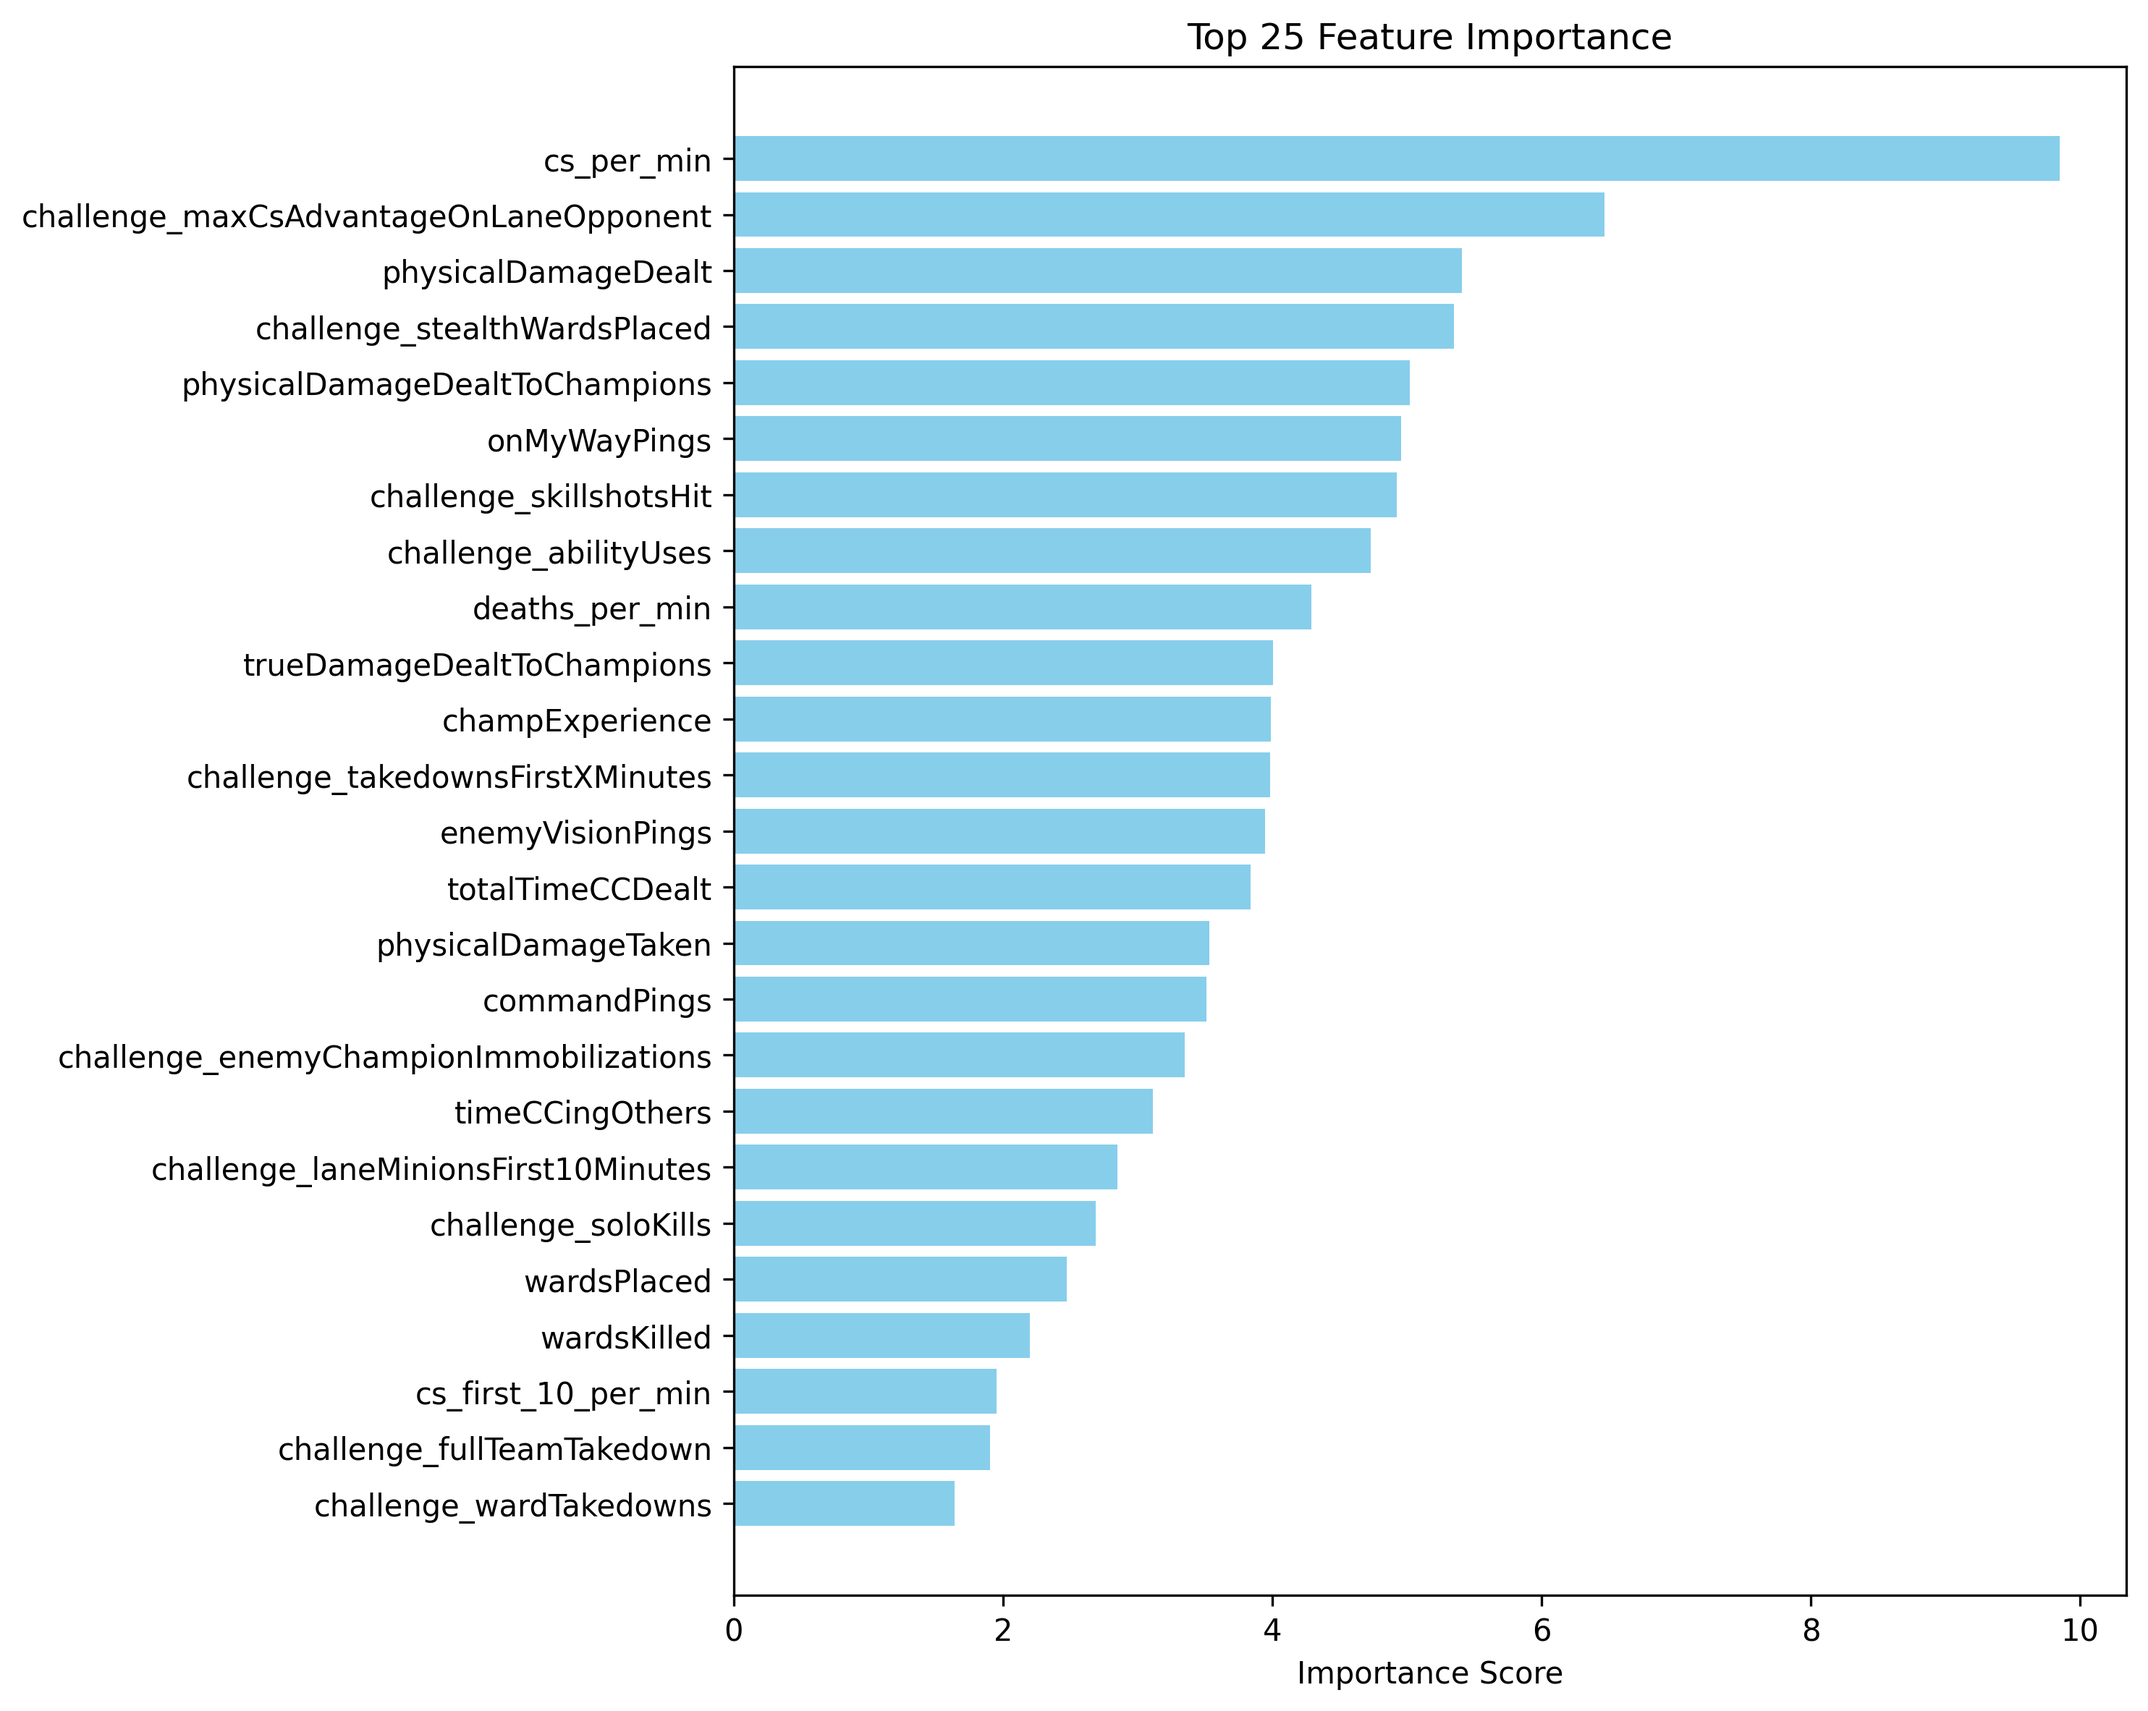
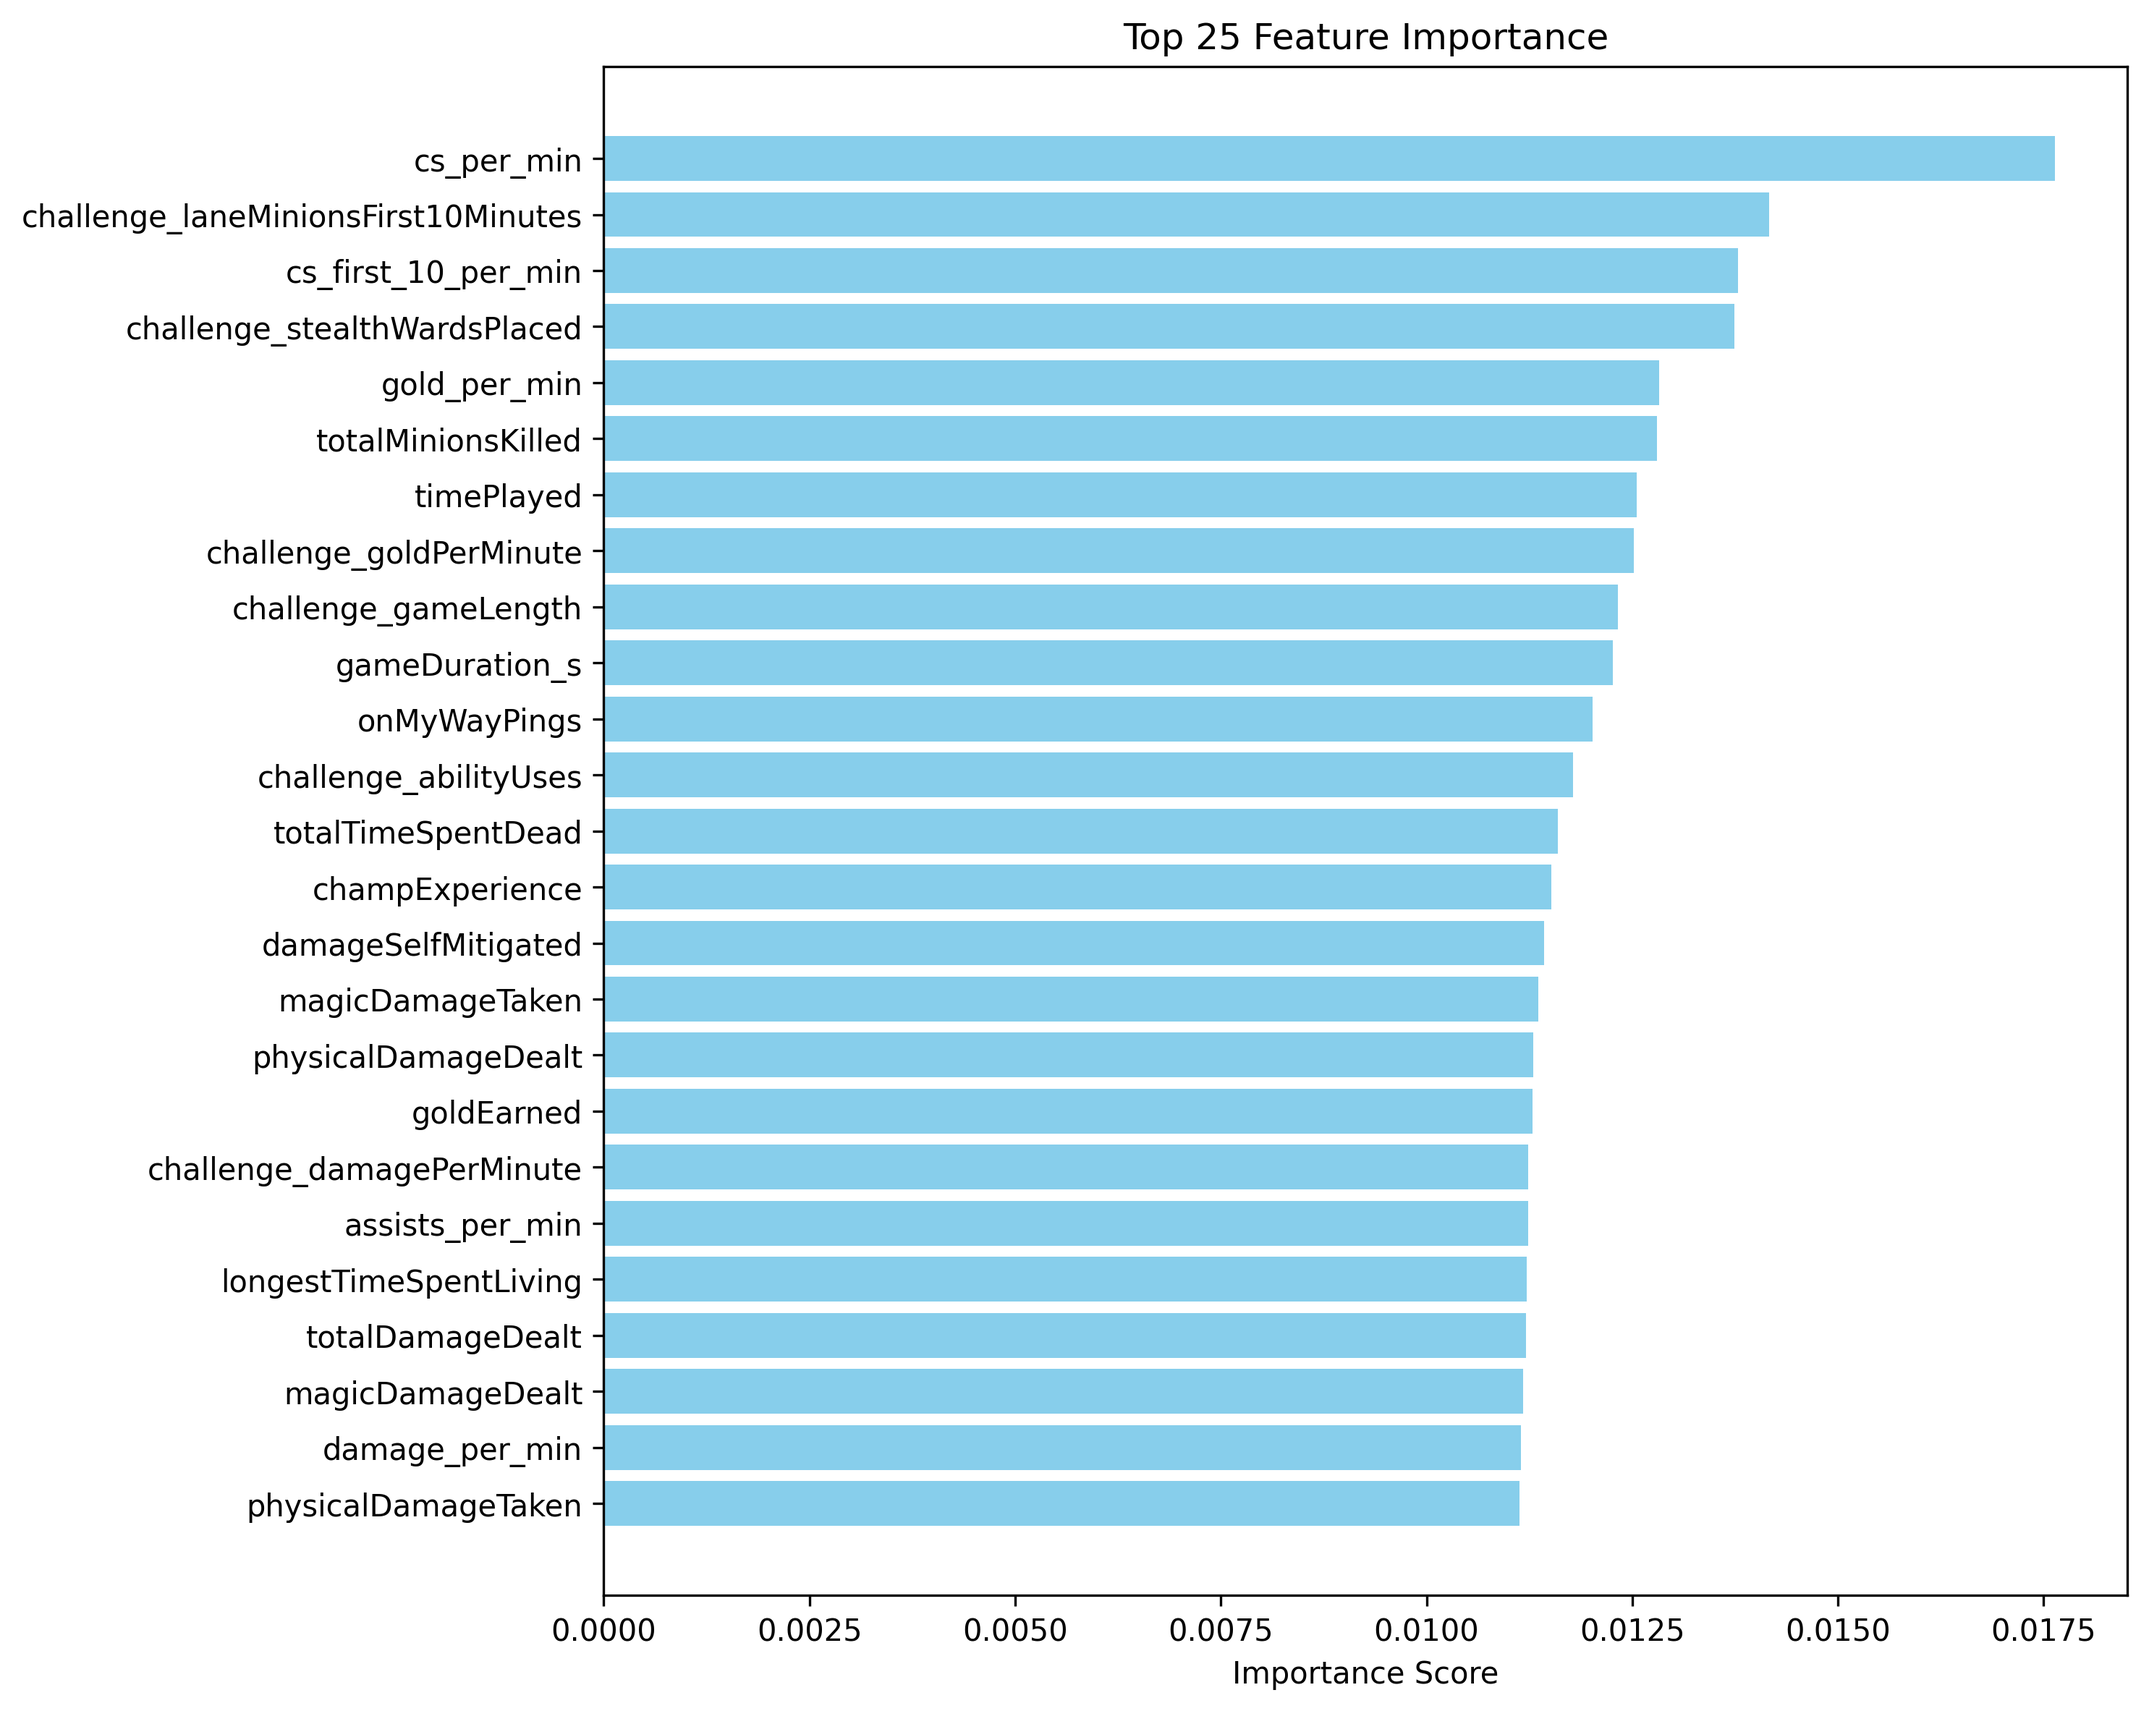
w

diff --git a/Final Project/Model/RandomForest/Model.py b/Final Project/Model/RandomForest/Model.py
@@ -1,0 +1,232 @@
+from pathlib import Path
+import argparse
+import joblib
+import shutil
+import numpy as np
+import pandas as pd
+from sklearn.compose import ColumnTransformer
+from sklearn.impute import SimpleImputer
+from sklearn.metrics import make_scorer, mean_squared_error, r2_score
+from sklearn.model_selection import KFold, ParameterGrid, cross_validate, train_test_split
+from sklearn.pipeline import Pipeline
+from sklearn.preprocessing import OrdinalEncoder
+from sklearn.ensemble import RandomForestRegressor
+
+BASE_DIR = Path(__file__).resolve().parent
+DATA_PATH = BASE_DIR.parent / "Data" / "Updated_Data.csv"
+RESULTS_PATH = BASE_DIR / "rf_model_results.csv"
+
+TARGET = "TOTAL_LP"
+EXCLUDED_FEATURES = {"tier", "rank", "tier_int", "rank_int", "leaguepoints", "lp", "total_lp"}
+
+RANDOM_STATE = 67
+TEST_SIZE = 0.2
+N_SPLITS = 5
+TOP_K = 10
+
+PARAM_GRID = {
+    "regressor__n_estimators": [300, 600],
+    "regressor__max_depth": [50, None],
+    "regressor__min_samples_split": [2, 5],
+    "regressor__min_samples_leaf": [1, 3],
+    "regressor__max_features": [50, 0.5],
+}
+CLEAN_PARAM_NAMES = [key.replace("regressor__", "") for key in PARAM_GRID]
+
+def load_dataset() -> tuple[pd.DataFrame, pd.Series]:
+    data = pd.read_csv(DATA_PATH, low_memory=False)
+    if TARGET not in data.columns:
+        raise ValueError(f"{TARGET} not found in {DATA_PATH.name}.")
+    data = data.dropna(subset=[TARGET])
+
+    feature_cols = [col for col in data.columns if col != TARGET and col.lower() not in EXCLUDED_FEATURES]
+    if not feature_cols:
+        raise ValueError("No features remain after exclusions.")
+
+    excluded_cols = [col for col in data.columns if col.lower() in EXCLUDED_FEATURES and col != TARGET]
+    print(f"Loaded {len(data)} rows.")
+    if excluded_cols:
+        print(f"Excluded LP/rank columns: {', '.join(excluded_cols)}")
+
+    X = data[feature_cols].copy()
+    y = data[TARGET].astype(float)
+    return X, y
+
+def determine_feature_types(feature_frame: pd.DataFrame) -> tuple[list[str], list[str]]:
+    categorical_features = feature_frame.select_dtypes(include=["object"]).columns.tolist()
+    numeric_features = [col for col in feature_frame.columns if col not in categorical_features]
+    return numeric_features, categorical_features
+
+def build_pipeline(numeric_features: list[str], categorical_features: list[str]) -> Pipeline:
+    transformers = []
+    if numeric_features:
+        transformers.append(("num", SimpleImputer(strategy="median"), numeric_features))
+    if categorical_features:
+        cat_pipe = Pipeline(
+            steps=[
+                ("imputer", SimpleImputer(strategy="constant", fill_value="missing")),
+                ("encoder", OrdinalEncoder(handle_unknown="use_encoded_value", unknown_value=-1)),
+            ]
+        )
+        transformers.append(("cat", cat_pipe, categorical_features))
+    if not transformers:
+        raise ValueError("No columns available for preprocessing.")
+    preprocessor = ColumnTransformer(transformers)
+
+    regressor = RandomForestRegressor(
+        n_jobs=-1,
+        random_state=RANDOM_STATE,
+        oob_score=False,
+    )
+    return Pipeline([("preprocess", preprocessor), ("regressor", regressor)])
+
+def rmse_score(y_true, y_pred):
+    return np.sqrt(mean_squared_error(y_true, y_pred))
+
+def append_partial_result(row: dict, filepath: Path, header_written: bool) -> bool:
+    ordered_row = {}
+    if "model_filename" in row:
+        ordered_row["model_filename"] = row["model_filename"]
+    for col in ("mean_cv_rmse", "std_cv_rmse", "mean_cv_r2"):
+        if col in row:
+            ordered_row[col] = row[col]
+    for col in CLEAN_PARAM_NAMES:
+        if col in row:
+            ordered_row[col] = row[col]
+    pd.DataFrame([ordered_row]).to_csv(filepath, mode="a", header=not header_written, index=False)
+    return True
+
+def run_hyperparameter_search(
+    X_train: pd.DataFrame,
+    y_train: pd.Series,
+    numeric_features: list[str],
+    categorical_features: list[str],
+    results_path: Path,
+) -> tuple[pd.DataFrame, dict]:
+    results_path.unlink(missing_ok=True)
+    header_written = False
+
+    models_dir = BASE_DIR / "all_models"
+    models_dir.mkdir(parents=True, exist_ok=True)
+
+    param_grid = list(ParameterGrid(PARAM_GRID))
+    total_configs = len(param_grid)
+    kfold = KFold(n_splits=N_SPLITS, shuffle=True, random_state=RANDOM_STATE)
+    rmse_scorer = make_scorer(rmse_score, greater_is_better=False)
+
+    results = []
+    print(f"Evaluating {total_configs} hyperparameter combinations...")
+    for idx, params in enumerate(param_grid, start=1):
+        pipeline = build_pipeline(numeric_features, categorical_features)
+        pipeline.set_params(**params)
+        cv_scores = cross_validate(
+            pipeline,
+            X_train,
+            y_train,
+            cv=kfold,
+            scoring={"rmse": rmse_scorer, "r2": "r2"},
+            n_jobs=-1,
+        )
+
+        pipeline.fit(X_train, y_train)
+        model_filename = f"rf_reg_{idx}.joblib"
+        joblib.dump(pipeline, models_dir / model_filename)
+
+        rmse_scores = -cv_scores["test_rmse"]
+        row = {
+            "model_filename": model_filename,
+            "mean_cv_rmse": rmse_scores.mean(),
+            "std_cv_rmse": rmse_scores.std(),
+            "mean_cv_r2": cv_scores["test_r2"].mean(),
+            "params_prefixed": params,
+        }
+        clean_params = {k.replace("regressor__", ""): v for k, v in params.items()}
+        row.update(clean_params)
+        results.append(row)
+
+        header_written = append_partial_result(row, results_path, header_written)
+        print(f"[{idx:02d}/{total_configs}] RMSE: {rmse_scores.mean():.3f}, params: {clean_params}")
+
+    results_df = pd.DataFrame(results).sort_values("mean_cv_rmse").reset_index(drop=True)
+    best_params = results_df.iloc[0]["params_prefixed"]
+    return results_df, best_params
+
+def display_top_models(results_df: pd.DataFrame, top_n: int = TOP_K) -> None:
+    cols_to_show = ["model_filename", "mean_cv_rmse", "std_cv_rmse", "mean_cv_r2"] + CLEAN_PARAM_NAMES
+    cols_to_show = [col for col in cols_to_show if col in results_df.columns]
+    print("\nTop models by cross-validated RMSE:")
+    print(results_df.head(top_n)[cols_to_show].to_string(index=False))
+
+def save_results(results_df: pd.DataFrame) -> None:
+    cols = [col for col in results_df.columns if col != "params_prefixed"]
+    results_df[cols].to_csv(RESULTS_PATH, index=False)
+
+def train_best_model(
+    best_params: dict,
+    numeric_features: list[str],
+    categorical_features: list[str],
+    X_train: pd.DataFrame,
+    X_test: pd.DataFrame,
+    y_train: pd.Series,
+    y_test: pd.Series,
+) -> tuple[Pipeline, float, float]:
+    pipeline = build_pipeline(numeric_features, categorical_features)
+    pipeline.set_params(**best_params)
+    pipeline.fit(X_train, y_train)
+    predictions = pipeline.predict(X_test)
+    rmse = float(np.sqrt(mean_squared_error(y_test, predictions)))
+    r2 = r2_score(y_test, predictions)
+    return pipeline, rmse, r2
+
+def main() -> None:
+    parser = argparse.ArgumentParser(description="Random Forest Regression trainer.")
+    parser.add_argument("--n-features", type=int, default=0, help="Reserved for parity; RF uses all features by default.")
+    args = parser.parse_args()
+
+    X, y = load_dataset()
+    numeric_features, categorical_features = determine_feature_types(X)
+
+    X_train, X_test, y_train, y_test = train_test_split(
+        X,
+        y,
+        test_size=TEST_SIZE,
+        random_state=RANDOM_STATE,
+    )
+
+    test_data = X_test.copy()
+    test_data[TARGET] = y_test
+    test_data.to_csv(BASE_DIR / "test_data.csv", index=False)
+
+    results_df, best_params = run_hyperparameter_search(
+        X_train, y_train, numeric_features, categorical_features, RESULTS_PATH,
+    )
+
+    best_models_dir = BASE_DIR / "best_models"
+    best_models_dir.mkdir(parents=True, exist_ok=True)
+
+    best_row = results_df.iloc[0]
+    best_filename = best_row["model_filename"]
+    src_model_path = BASE_DIR / "all_models" / best_filename
+    dst_model_path = best_models_dir / "best_model_rf.joblib"
+    shutil.copy2(src_model_path, dst_model_path)
+    print(f"Saved best model to {dst_model_path}")
+
+    display_top_models(results_df)
+    save_results(results_df)
+
+    _, test_rmse, test_r2 = train_best_model(
+        best_params,
+        numeric_features,
+        categorical_features,
+        X_train,
+        X_test,
+        y_train,
+        y_test,
+    )
+
+    print(f"\nHold-out test RMSE: {test_rmse:.3f}")
+    print(f"Hold-out test R^2: {test_r2:.3f}")
+    print(f"All results saved to {RESULTS_PATH}")
+
+if __name__ == "__main__":
+    main()

diff --git a/Final Project/Model/Model-Checking/Check.py b/Final Project/Model/Model-Checking/Check.py
@@ -8,20 +8,16 @@ from catboost import CatBoostClassifier, CatBoostRegressor
 from sklearn.pipeline import Pipeline
 from sklearn.metrics import mean_absolute_error, mean_squared_error, r2_score
 from scipy import stats
+from sklearn.ensemble import RandomForestRegressor, RandomForestClassifier
 
 BASE_DIR = Path(__file__).resolve().parent
 RESULTS_DIR = BASE_DIR / "results"
 RESULTS_DIR.mkdir(exist_ok=True)
 
-# 1. Point to the saved model file
-# Adjust the path if your model is in a different folder
-MODEL_PATH = Path(r"C:\Users\AHMET\Documents\GitHub\CSE-2600\Final Project\Model\CatBoost\all_models\catboost_reg_2.joblib")
+MODEL_PATH = Path(r"C:\Users\AHMET\Documents\GitHub\CSE-2600\Final Project\Model\RandomForest\all_models\rf_reg_1.joblib")
+TEST_DATA_PATH = Path(r"C:\Users\AHMET\Documents\GitHub\CSE-2600\Final Project\Model\RandomForest\test_data.csv")
 
-# 2. Load the pipeline
 pipeline: Pipeline = joblib.load(MODEL_PATH)
-
-# 3. Load test data (adjust path to your test data)
-TEST_DATA_PATH = Path(r"C:\Users\AHMET\Documents\GitHub\CSE-2600\Final Project\Model\CatBoost\test_data.csv")
 test_df = pd.read_csv(TEST_DATA_PATH)
 
 # Separate features and target
@@ -80,12 +76,13 @@ for idx, feature in enumerate(feature_names):
         feature_values = X_test_transformed.toarray()[:, idx]
     else:
         feature_values = X_test_transformed[:, idx]
-    
-    # Calculate correlation with target
-    correlation = np.corrcoef(feature_values, y_test)[0, 1]
-    
-    # Calculate p-value using linear regression t-test
-    slope, intercept, r_value, p_value, std_err = stats.linregress(feature_values, y_test)
+
+    if np.all(feature_values == feature_values[0]):
+        correlation = np.nan
+        slope = intercept = r_value = p_value = std_err = np.nan
+    else:
+        correlation = np.corrcoef(feature_values, y_test)[0, 1]
+        slope, intercept, r_value, p_value, std_err = stats.linregress(feature_values, y_test)
     
     # Calculate feature statistics
     feature_mean = np.mean(feature_values)
@@ -132,18 +129,24 @@ if isinstance(model, (XGBClassifier, XGBRegressor)):
 elif isinstance(model, (CatBoostClassifier, CatBoostRegressor)):
     # CatBoost feature importance
     importance_values = model.get_feature_importance()
-    
-    # Map importance values to feature names
     mapped_importance = {}
     for idx, score in enumerate(importance_values):
         if idx < len(feature_names):
             name = feature_names[idx]
-            
-            # Clean up ColumnTransformer prefixes
             if "__" in name:
                 name = name.split("__", 1)[1]
-                
             mapped_importance[name] = score
+
+elif isinstance(model, (RandomForestClassifier, RandomForestRegressor)):
+    importance_values = getattr(model, "feature_importances_", None)
+    if importance_values is None:
+        raise ValueError("RandomForest model lacks feature_importances_.")
+    mapped_importance = {}
+    for idx, score in enumerate(importance_values[: len(feature_names)]):
+        name = feature_names[idx]
+        if "__" in name:
+            name = name.split("__", 1)[1]
+        mapped_importance[name] = score
 else:
     raise ValueError(f"Unsupported model type: {type(model)}")
 

diff --git a/Final Project/Model/Data_Cleanup.py b/Final Project/Model/Data_Cleanup.py
@@ -250,9 +250,6 @@ def cleanup_11():
 
     if kept_groups:
         cleaned_data = pd.concat(kept_groups, ignore_index=True)
-        
-        if '_combined_score' in cleaned_data.columns:
-            cleaned_data = cleaned_data.drop(columns=['_combined_score'])
     else:
         cleaned_data = pd.DataFrame(columns=data.columns)
     
